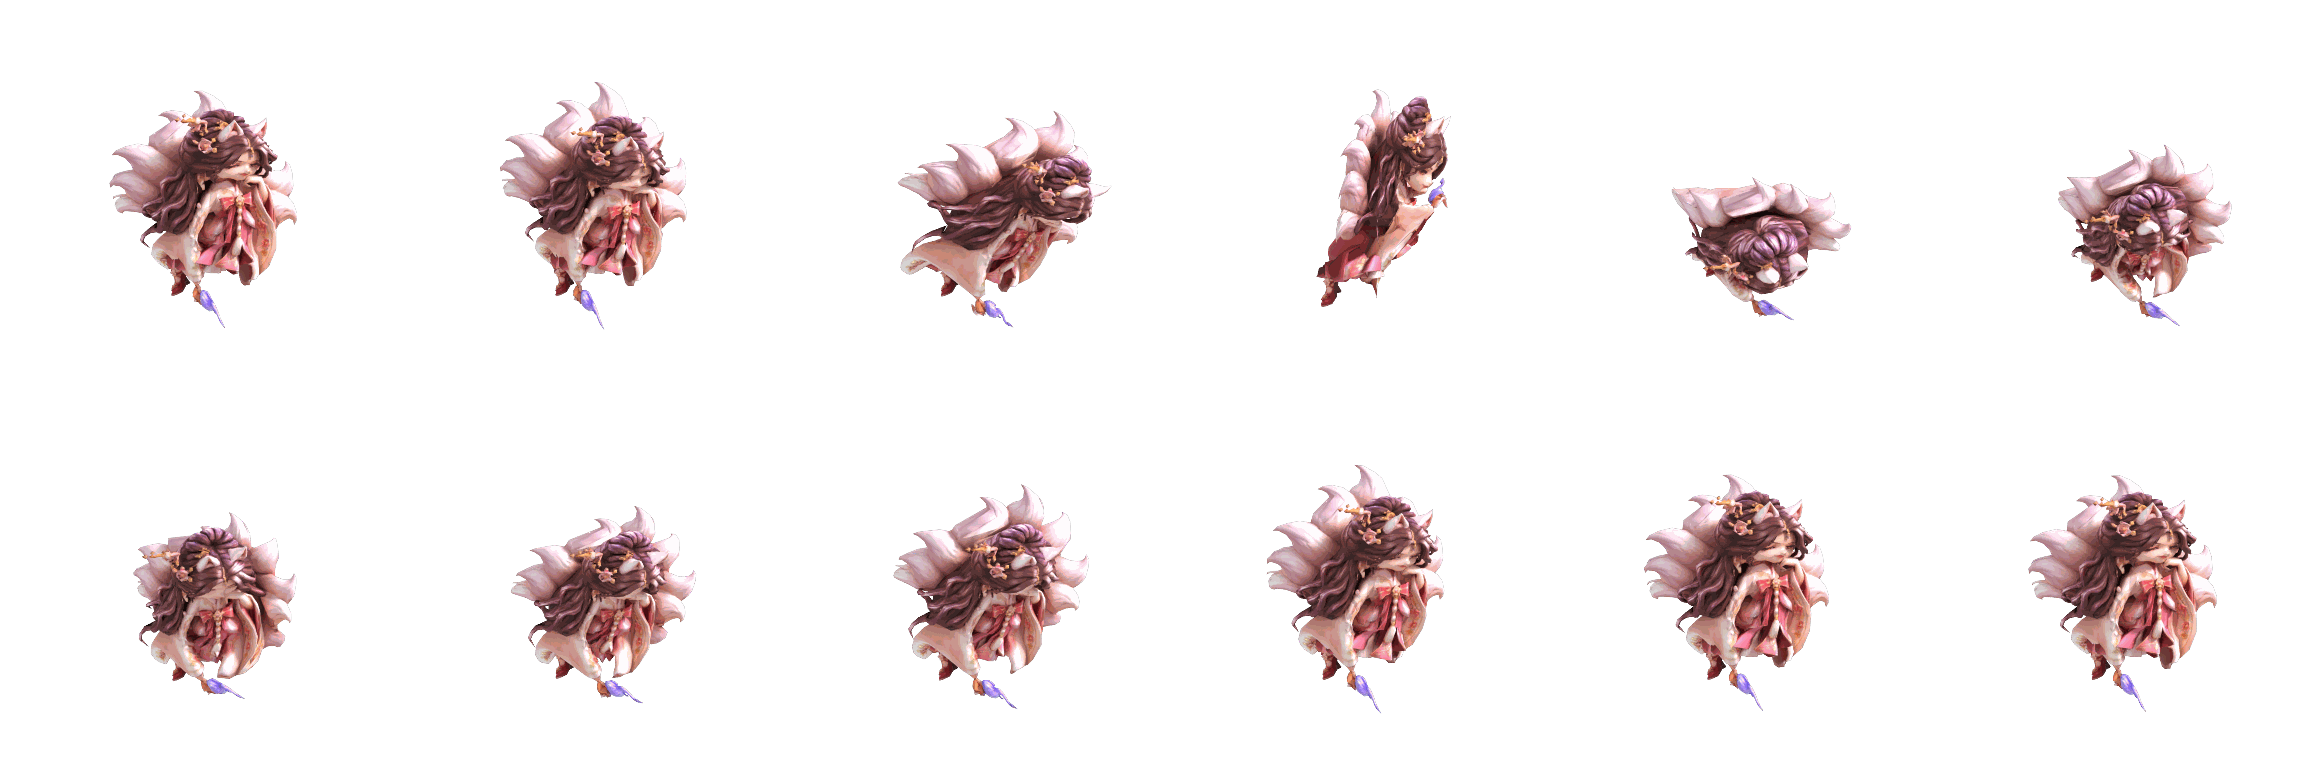
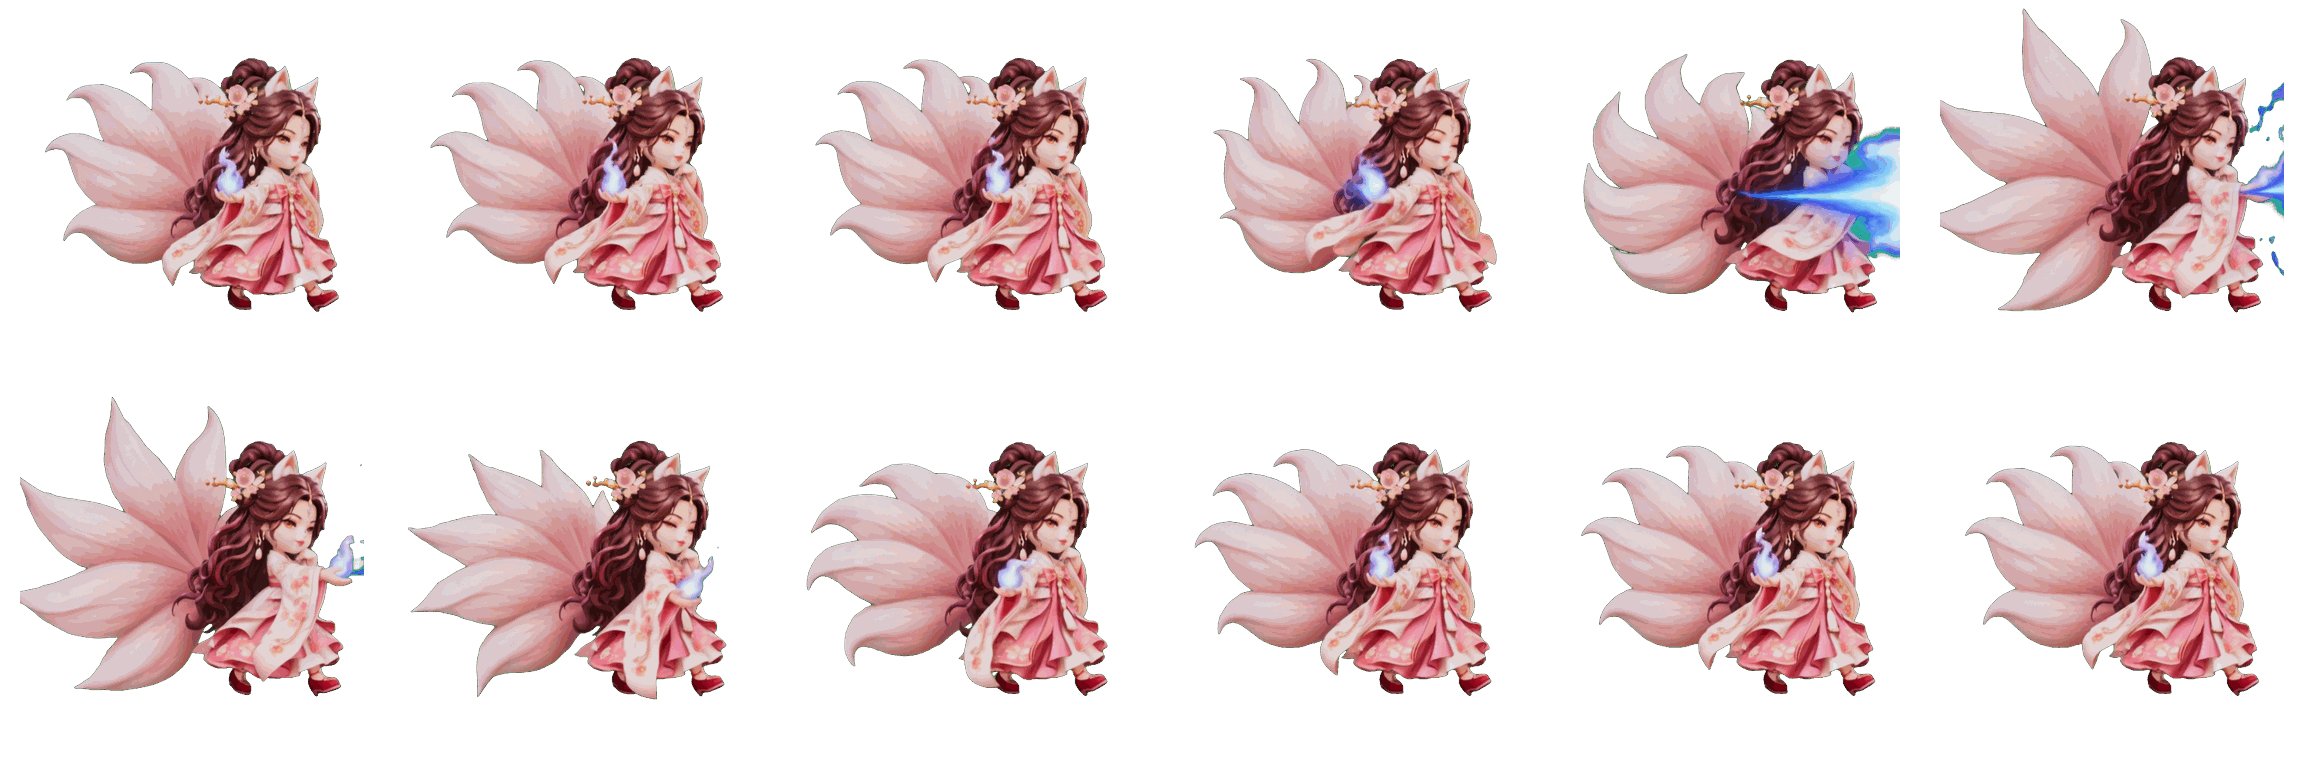
구미호 대기·걷기·공격을 클링 영상 그림으로 바꿈
- 클링 API(4.0 Flash, 3초, 720p)로 초록 바탕·카메라 고정 영상을 만들어 넣음
- tools/kling_run.py·kling/jobs.json·kling.yml: 주문서만 올리면 영상을 만들어 옴
- import_video_standee.py: 초록 바탕 영상은 초록을 지우고 같은 크기·자리로

Claude-Session: https://claude.ai/code/session_01JPWR7ZFhvPeejBM3RB4Pqs

diff --git a/tools/import_video_standee.py b/tools/import_video_standee.py
@@ -2,8 +2,9 @@
 
 쓰는 법: python tools/import_video_standee.py <영상.mp4> <영웅 id> <동작> <처음 장면> <끝 장면> [키 비율]
 예: python tools/import_video_standee.py kling.mp4 gumiho walk 1 36
-- 영상을 장면별로 뜯고, 인공지능 배경 지우기(rembg, isnet-anime)로 인물만 남긴다.
-  (pip install "rembg[cpu]" 필요. 단색 바탕 영상이면 더 깨끗하다.)
+- 영상을 장면별로 뜯는다. 바탕이 초록 단색(클링 주문서 kling/jobs.json으로 만든 영상)이면 초록을 지우고,
+  아니면 인공지능 배경 지우기(rembg, isnet-anime, pip install "rembg[cpu]")로 인물만 남긴다.
+- 끝 장면 번호에 0을 주면 영상 끝까지.
 - 장면 범위 안에서 고르게 12장을 골라 6칸×2줄(칸 384) 그림으로 만든다.
 - 떨림 방지: 크기·가운데·발 높이를 장면마다 따로 재지 않고, 범위 전체에 걸쳐 부드럽게 이은 값(2차 곡선)으로 맞춘다.
 - 키 비율(기본 0.66)은 칸 높이에 대한 인물 전체(꼬리 포함) 높이. 발은 칸의 81.25% 땅선에 둔다.
@@ -24,15 +25,38 @@ FRAMES = 12
 FOOT = 0.8125
 
 
+def _key_green(image: Image.Image) -> Image.Image:
+	pixels = np.asarray(image.convert("RGB")).astype(np.float32)
+	red, green, blue = pixels[..., 0], pixels[..., 1], pixels[..., 2]
+	keyness = np.clip((green - np.maximum(red, blue)) / 255.0, 0.0, 1.0)
+	alpha = np.clip(1.0 - (keyness - 0.2) / 0.3, 0.0, 1.0)
+	spill = np.clip(green - np.maximum(red, blue), 0.0, None) * (alpha < 1.0)
+	return Image.fromarray(np.dstack([red, green - spill, blue, alpha * 255.0]).clip(0, 255).astype(np.uint8), "RGBA")
+
+
+fixed = [False]
+
+
 def _cut(video: str, first: int, last: int) -> list:
-	from rembg import new_session, remove
 	work = Path(tempfile.mkdtemp())
 	subprocess.run(["ffmpeg", "-v", "error", "-i", video, str(work / "%03d.png")], check=True)
+	if last <= 0:
+		last = len(list(work.glob("*.png")))
 	picks = np.linspace(first, last, FRAMES).round().astype(int)
-	session = new_session("isnet-anime")
+	red, green, blue = Image.open(work / "001.png").convert("RGB").getpixel((4, 4))
+	session = None
+	if not (green > 180 and red < 120 and blue < 120):
+		from rembg import new_session
+		session = new_session("isnet-anime")
 	frames = []
+	fixed[0] = session is None
 	for number in picks:
-		image = remove(Image.open(work / ("%03d.png" % number)), session=session).convert("RGBA")
+		source = Image.open(work / ("%03d.png" % number))
+		if session is None:
+			image = _key_green(source)
+		else:
+			from rembg import remove
+			image = remove(source, session=session).convert("RGBA")
 		alpha = np.array(image)[:, :, 3]
 		alpha[alpha < 30] = 0
 		image.putalpha(Image.fromarray(alpha))
@@ -45,17 +69,24 @@ def _smooth(values) -> np.ndarray:
 	return np.polyval(np.polyfit(x, values, 2), x)
 
 
-def build(frames: list, height_ratio: float) -> Image.Image:
+def build(frames: list, height_ratio: float, fixed: bool = False) -> Image.Image:
 	boxes = []
 	for image in frames:
 		ys, xs = np.nonzero(np.array(image)[:, :, 3] > 128)
 		boxes.append((xs.min(), ys.min(), xs.max(), ys.max()))
-	heights = _smooth([b[3] - b[1] for b in boxes])
-	bottoms = _smooth([b[3] for b in boxes])
-	centers = _smooth([(b[0] + b[2]) / 2 for b in boxes])
+	if fixed:
+		# 카메라가 고정된 영상(초록 바탕): 모든 장면을 같은 크기·같은 자리로 둔다. 꼬리를 펼치거나 불을 쏘아도 몸이 줄지 않게.
+		count = len(boxes)
+		heights = np.full(count, float(np.median([b[3] - b[1] for b in boxes])))
+		bottoms = np.full(count, float(np.median([b[3] for b in boxes])))
+		centers = np.full(count, float(np.median([(b[0] + b[2]) / 2 for b in boxes])))
+	else:
+		heights = _smooth([b[3] - b[1] for b in boxes])
+		bottoms = _smooth([b[3] for b in boxes])
+		centers = _smooth([(b[0] + b[2]) / 2 for b in boxes])
 	target = CELL * height_ratio
 	# 가장 넓은 장면도 칸 안에 들어가게 줄인다.
-	shrink = min(1.0, min((CELL / 2 - 4) / max(1.0, max(c - b[0], b[2] - c) * target / h) for b, c, h in zip(boxes, centers, heights)))
+	shrink = min(1.0, min((CELL / 2 - 4) / max(1.0, max(c - b[0], b[2] - c) * target / h) for b, c, h in zip(boxes, centers, heights)), min((CELL * FOOT - 4) / max(1.0, (bt - b[1]) * target / h) for b, bt, h in zip(boxes, bottoms, heights)))
 	sheet = Image.new("RGBA", (CELL * COLUMNS, CELL * (FRAMES // COLUMNS)), (0, 0, 0, 0))
 	for index, image in enumerate(frames):
 		scale = target / heights[index] * shrink
@@ -72,7 +103,8 @@ def main() -> None:
 		sys.exit(1)
 	video, hero, kind, first, last = sys.argv[1:6]
 	ratio = float(sys.argv[6]) if len(sys.argv) > 6 else 0.66
-	sheet = build(_cut(video, int(first), int(last)), ratio)
+	frames = _cut(video, int(first), int(last))
+	sheet = build(frames, ratio, fixed[0])
 	out = ROOT / "assets" / "standees_anim" / ("%s_%s.png" % (hero, kind))
 	sheet.quantize(256, method=Image.Quantize.FASTOCTREE).save(out, optimize=True)
 	print("넣음:", out.name)

diff --git a/tools/kling_run.py b/tools/kling_run.py
@@ -1,0 +1,111 @@
+"""클링(Kling) API로 주문서 kling/jobs.json의 영웅 동작 영상을 만든다.
+
+- API 키는 환경 변수 KLING_API_KEY(저장소 비밀값)에서만 읽고 화면에 찍지 않는다.
+- 영웅마다, 동작마다 그림→영상(image-to-video) 작업을 한 번에 올리고, 끝날 때까지 기다려 mp4를 kling/out/<id>_<동작>.mp4로 받는다.
+- 첫 장면(first_frame)에 그림을 넣는다. 끝 장면(last_frame)을 받는 모델(flash가 아닌 것)이면 같은 그림을 끝 장면에도 넣어 반복되게 한다.
+- 작업마다 external_task_id(<id>_<동작>_<시각>)를 붙인다. recover: true면 최근 끝난 영상 중 kling/out에 없는 것을 먼저 받는다.
+- 이미 kling/out에 있는 영상은 다시 만들지 않는다(돈이 드니까). 다시 만들려면 파일을 지우거나 주문서에 "redo": true.
+- 주문서의 "only": ["gumiho_walk"]처럼 적으면 그것만 만든다.
+"""
+import base64
+import json
+import os
+import sys
+import time
+from pathlib import Path
+
+import requests
+
+ROOT = Path(__file__).resolve().parent.parent
+BASE = "https://api-singapore.klingai.com"
+OUT = ROOT / "kling" / "out"
+
+
+def _key() -> str:
+	key = os.environ.get("KLING_API_KEY", "").strip()
+	if not key:
+		print("KLING_API_KEY 비밀값이 없습니다.")
+		sys.exit(1)
+	return key
+
+
+def _download(url: str, headers: dict, path: Path) -> None:
+	got = requests.get(url, timeout=300)
+	if got.status_code != 200:
+		got = requests.get(url, headers={"Authorization": headers["Authorization"]}, timeout=300)
+	path.write_bytes(got.content)
+	print("받음:", path.name, got.status_code, len(got.content), "바이트")
+
+
+def _recover(headers: dict) -> None:
+	"""최근 하루 안에 끝난 영상 작업 중 아직 받지 않은 것을 받는다(앞선 실행이 중간에 멈췄을 때)."""
+	now = int(time.time() * 1000)
+	reply = requests.post("%s/tasks" % BASE, headers=headers, json={"start_time": now - 86400000, "end_time": now, "limit": 50, "filters": {"status": "succeeded", "product_type": "video"}}, timeout=60)
+	items = ((reply.json().get("data") or {}).get("result") or [])
+	print("최근 끝난 작업:", len(items))
+	for item in items:
+		path = OUT / ("recovered_%s.mp4" % item.get("id"))
+		if path.exists():
+			continue
+		for output in item.get("outputs", []):
+			if output.get("type") == "video":
+				_download(output["url"], headers, path)
+				break
+
+
+def main() -> None:
+	order = json.loads((ROOT / "kling" / "jobs.json").read_text(encoding="utf-8"))
+	headers = {"Authorization": "Bearer " + _key(), "Content-Type": "application/json"}
+	OUT.mkdir(parents=True, exist_ok=True)
+	only = set(order.get("only", []))
+	if order.get("recover"):
+		_recover(headers)
+	tasks = {}
+	for job in order["jobs"]:
+		image = base64.b64encode((ROOT / job["image"]).read_bytes()).decode()
+		for kind, motion in job["kinds"].items():
+			name = "%s_%s" % (job["id"], kind)
+			if only and name not in only:
+				continue
+			if (OUT / (name + ".mp4")).exists() and not order.get("redo"):
+				print("이미 있음:", name)
+				continue
+			body = {
+				"contents": [
+					{"type": "prompt", "text": motion + " " + order["common"]},
+					{"type": "first_frame", "url": image},
+				] + ([] if "flash" in order.get("model", "") else [{"type": "last_frame", "url": image}]),
+				"settings": {"resolution": order.get("resolution", "720p"), "duration": int(job.get("duration", order.get("duration", 3)))},
+				"options": {"watermark_info": {"enabled": False}, "external_task_id": "%s_%d" % (name, int(time.time()))},
+			}
+			reply = requests.post("%s/image-to-video/%s" % (BASE, order.get("model", "kling-4.0")), headers=headers, json=body, timeout=120)
+			data = reply.json() if reply.headers.get("content-type", "").startswith("application/json") else {}
+			print("올림:", name, reply.status_code, json.dumps(data, ensure_ascii=False)[:400])
+			task = (data.get("data") or {}).get("id")
+			if task:
+				tasks[task] = name
+	deadline = time.time() + 40 * 60
+	while tasks and time.time() < deadline:
+		time.sleep(20)
+		reply = requests.get("%s/tasks" % BASE, headers=headers, params={"task_ids": ",".join(tasks)}, timeout=60)
+		for item in (reply.json().get("data") or []):
+			name = tasks.get(item.get("id"))
+			status = item.get("status")
+			if not name or status not in ("succeeded", "failed"):
+				continue
+			del tasks[item["id"]]
+			if status == "failed":
+				print("실패:", name, json.dumps(item, ensure_ascii=False)[:600])
+				continue
+			videos = [o for o in item.get("outputs", []) if o.get("type") == "video"]
+			if not videos:
+				print("영상 없음:", name, json.dumps(item, ensure_ascii=False)[:600])
+				continue
+			_download(videos[0]["url"], headers, OUT / (name + ".mp4"))
+		print("남은 작업:", len(tasks))
+	if tasks:
+		print("시간 안에 끝나지 않은 작업:", tasks)
+
+
+if __name__ == "__main__":
+	main()

diff --git a/CLAUDE.md b/CLAUDE.md
@@ -32,7 +32,7 @@
 - 소환 연출(2026-11-17, 기획서는 프로젝트 문서 `claude/주사위영웅전_소환연출기획.md`): `scripts/ui/summon_show.gd`(SummonShow, 전체 화면 한 장면). 별빛 제단 → 운명의 주사위 강림(누르거나 1.5초) → 승격(최고 등급까지 파랑→보라→금, 번쩍·흔들림) → 빛기둥 → 뒷면 카드 배치 → 차례로 뒤집기(★★★는 등장 컷: 금빛 배경·큰 초상화·음성·꽃가루) → 결과(확인·한 번 더). 건너뛰기 버튼과 자동 사진(`instant`)은 곧바로 결과 장면. 상점의 `_summon`이 `await show.play(app, 결과, 한 번 더 값)`으로 띄운다(결과는 연출 전에 저장됨). 그림은 `assets/ui_summon/`(바탕 bg_altar·bg_glory, 주사위 die_blue·purple·gold, 카드 뒷면 card_back_*, 앞면 틀 card_front_*[창 위치는 meta.json], 딱지 badge_new), 주문서 `codex_work/job_summon.md`, 넣는 도구 `tools/import_summon.py <out/summon>`. 그림이 없으면 단색으로 대신한다. 자동 사진 `09_summon`(결과)·`09a~09e`(연출 장면).
 - 타이틀 로고(2026-11-17): 사용자가 고른 ChatGPT 시안의 타이틀처럼 금빛 로고 `assets/logos/title.png`(주사위 엠블럼·월계수·보석, 글자 포함)·부제 리본 `title_ribbon.png`·금 마름모 `title_diamond.png`를 `title_screen.gd`의 `_build_art_title`이 키 아트 위에 올린다. 그림이 없으면 예전 글자 제목. 로고는 보라 보석이 지워지지 않게 가장자리와 이어진 자홍만 바탕으로 지웠다.
 - 3D 모델(트리포, 2026-11-16 시험): 꼬마 모형 그림 한 장을 트리포(Tripo) API로 3D 모델 → 뼈대 → 동작(idle·walk·slash)까지 만들고, 블렌더(화면 없이, GitHub 서버)로 찍어 12칸 가로 그림 `assets/standees_anim/<id>_<동작>.png`으로 넣는다(`GameData.standee_anims`, `board_view.gd`의 `piece_anims`: 이동 중이면 walk. 2026-11-18 사용자 지적으로 서 있을 때는 idle 그림의 첫 장면에 멈추고 `_breath`로 숨쉬기만 한다. 트리포 대기 동작은 고개를 두리번거려 목이 흔들려 보였다. 파티원 두 명은 선봉 뒤 양옆 ±0.46칸·0.22칸 위에 0.78배로 선다). 주문서는 `tripo/jobs.json`, 도구는 `tools/tripo_run.py`(API 키는 저장소 비밀값 `TRIPO_API_KEY`, 예전 v2 주소로 연결됨)·`tools/tripo_render.py`, 작업 흐름은 `.github/workflows/tripo.yml`(`claude/tripo`로 시작하는 브랜치에서 `tripo/`가 바뀌면 돈다. 결과는 실행 결과물 `tripo-out`). 한 명에 약 85크레딧. 찍는 방향은 주문서의 `view`(도, 90이 트리포 정면)로 영웅마다 정한다. 뼈대를 못 넣는 모델(말 탄 마초, 목란)은 멈춘 그림 그대로 둔다. 파티원 두 명도 `party_anims`로 움직인다. API 크레딧이 없을 때는 트리포 웹(studio.tripo3d.ai, 크롬)에서 만든다: 그림 올리기 → 생성(55) → 리토폴로지 삼각형 1만(35) → 자동 리깅(20) → 프리셋 걷기·베기·대기 선택(무료) → 내보내기(GLB, 텍스처 1k, 애니메이션 모두, 제자리). 내려받은 GLB를 `tripo/web/<id>.glb`로 넣고 주문서에 `"local"`로 적으면 찍는다. 웹에서 내보낸 모델은 정면이 대체로 0도라 `view`는 -15쯤이지만 옆을 보는 것도 있어, 찍은 그림을 보고 영웅마다 고친다(값을 키우면 그림에서 왼쪽으로 돈다). 여러 명을 내보낼 때는 크롬이 둘째 파일부터 막으므로 사용자가 '여러 파일 자동 다운로드'를 허용해야 한다. 2026-11-16에 48명 모두 넣었다(웹 38명). 2026-11-18 다시 찍음: 찍는 방향은 이제 뼈대(mixamo 이름의 좌우 어깨·팔·허벅지, 발끝)로 앞 방향을 재서 모두 앞이 화면 오른쪽으로 40도 돌아간 모습으로 맞춘다(`tripo_render.py`의 `skeleton_forward`·TURN_RIGHT, 영웅별 덧보정은 주문서의 `turn_fix`, 몇 명만 다시 찍을 때는 주문서의 `only`). 모델 원본(GLB)과 이 도구들은 `claude/tripo-web`·`claude/tripo-face` 브랜치에 있다. 결과는 `tools/import_standee_anims.py <받은 폴더>`로 넣는다(칸마다 발을 땅선 81.25%에 맞추고 걸음 오르내림은 1.5%까지만, 256색). 그림은 칸 384픽셀, 6칸씩 두 줄(2304×768)로 찍고 256색으로 줄여 넣는다(`board_view.gd`의 `_anim_region`이 예전 12칸 한 줄 그림도 읽는다). 찍기는 여섯 서버가 나눠 한다(`SHARD`). 이미 만든 작업 번호(model_task·rig_task·anim_task)를 주문서에 적어 두면 다시 만들지 않는다.
-- 영상 모형 시험(2026-11-18, 사용자 요청): 클링(Kling) 영상이 트리포 모형보다 품질이 좋아 구미호만 먼저 바꿨다. `assets/standees_anim/gumiho_walk.png`·`gumiho_idle.png`는 사용자가 클링으로 만든 3초 영상의 옆으로 걷는 앞 36장에서 12장을 골라 만든 것(공격 slash는 아직 트리포). 넣는 도구 `tools/import_video_standee.py <영상> <id> <동작> <처음> <끝> [키 비율]`(rembg isnet-anime로 배경 지움, 크기·가운데·발 높이는 범위 전체를 2차 곡선으로 이어 떨림 방지). 게임용 영상은 카메라 고정·단색 바탕·제자리 반복 동작으로 주문해야 깔끔하다. 비교 미리보기 페이지는 Claude 아티팩트 '구미호 모형 미리보기'.
+- 영상 모형(2026-11-18, 사용자 요청): 클링(Kling) 영상이 트리포 모형보다 품질이 좋아 구미호부터 바꿨다(대기·걷기·공격 모두). 클링 API(저장소 비밀값 `KLING_API_KEY`, 새 방식 한 개 키를 `Authorization: Bearer`로, 주소 api-singapore.klingai.com)로 만든다: 주문서 `kling/jobs.json`(2026-11-18 사용자 결정: 모델 Kling 4.0 Flash `kling-4.0-flash`, 3초, 720p. Flash는 첫 장면만 받아 반복은 프롬프트로 부탁함. 카메라 고정·초록 #00FF00 바탕·제자리 동작), 참고 그림 `kling/ref/<id>.png`(초록 바탕 1024 정사각), 도구 `tools/kling_run.py`, 작업 흐름 `.github/workflows/kling.yml`(`claude/kling`으로 시작하는 브랜치에서 `kling/jobs.json`·`kling/ref`가 바뀌면 돌고, 받은 mp4를 그 브랜치의 `kling/out/`에 올림. 이미 받은 영상은 다시 만들지 않음, `only`로 골라 만들기, 한 번에 3초 약 0.28달러). mp4는 main에 올리지 않고 `claude/kling-*` 브랜치에만 둔다(`kling/.gdignore`). 넣는 도구 `tools/import_video_standee.py <영상> <id> <동작> 1 0`(초록 바탕이면 초록을 지우고 모든 장면을 같은 크기·자리로, 아니면 rembg로 지우고 2차 곡선으로 떨림 방지, 12장 → 6칸×2줄·256색). 구미호 걷기 영상만 처음 시험한 Kling 4.0으로 만들었다. 비교 미리보기 페이지는 Claude 아티팩트 '구미호 모형 미리보기'.
 - 공격 동작(2026-11-18): 48명 모두 `assets/standees_anim/<id>_slash.png`(트리포 웹 모형은 chop, API 모형은 slash 동작을 찍음). 찍기는 `claude/tripo-slash` 브랜치(주문서 `kinds: ["slash"]`면 그 동작만 찍음, `tripo_render.py`의 KINDS). 쓰는 곳은 전투 창 `battle_overlay.gd`: 영웅 모형은 움직이는 그림(AtlasTexture, `_anim_sides`·`_set_anim_frame`)으로 서 있다가(idle 첫 장면 + 숨쉬기) 부딪칠 때 두 쪽이 함께 벤다(`_swing`, 0.6초). 웹 모형의 chop은 몸을 깊이 숙이는 장면이 있어 부딪침 번쩍임과 겹치게 맞췄다. 자동 사진 `16b_battle_slash`.
 - 화면 방식(2026-11-16): 가로 전용·전체 화면. 웹은 처음 누를 때 전체 화면과 가로 고정을 청하고(`main.gd`의 `_setup_display`, 설정의 전체 화면 켜기·끄기), 세로로 들면 안내 대신 게임이 스스로 90도 돌아 언제나 가로로 그려진다(`main.gd`의 `_fit_orientation`: 틀 전체를 돌리고 기준 크기를 720×1280으로 바꾼다). 그래서 화면 크기는 `get_viewport_rect()`가 아니라 틀(`app.size`)에서 얻고, 다른 칸의 위치는 `global_position`끼리 빼지 말고 `Kit.spot_in`으로 구한다. 화면 좌표는 `app.to_app`으로 바꾼다.
 - 가로 화면(2026-11-15 전환, 1280×720): 로비는 모두의 마블식(왼쪽 세로 메뉴·큰 영웅 카드와 장식 액자 `assets/ui_frames/lobby_frame.png`·배너·게임 시작), 맵은 원작 주사위의 잔영식(통짜 풍경 `assets/art/boards/<지형>.jpg`은 거울 2×2 이어 붙이기, 두꺼운 육각 칸 `assets/hex/<칸 종류>.png`, 가까운 카메라, 파티 3명이 함께 이동, 칸 위 물건 `assets/objects/`). 주사위와 전투는 창을 띄우지 않고 판 위에서 바로 보여 준다. 글·설명 칸은 단색 상자 대신 장식 판(`scripts/ui/ornate_box.gd`, `Kit.plate`/`Kit.panel`)과 리본 제목(`Kit.ribbon`)을 쓴다. 화면마다 판 색이 다르다(`main.gd`의 SCREEN_MOODS → `Kit.panel_tint`). 다른 화면의 아래 메뉴는 `Kit.screen_frame`의 왼쪽 자리(Dock)로 옮겨 가 세로 메뉴가 된다. 가로 배경은 `assets/art/wide/`(`GameData.art`가 WIDE_ART로 먼저 찾음), 입체 로고는 `assets/logos/`(`GameData.logo`). 시험 빌드는 PR 없이 `gh workflow run build.yml --ref <브랜치>`로 돌려 사진만 확인할 수 있다.
